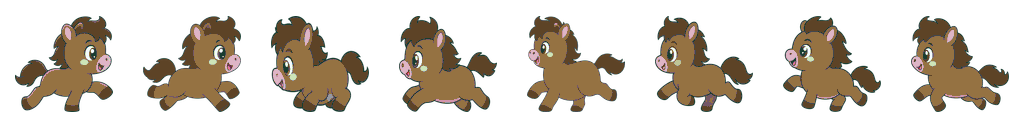
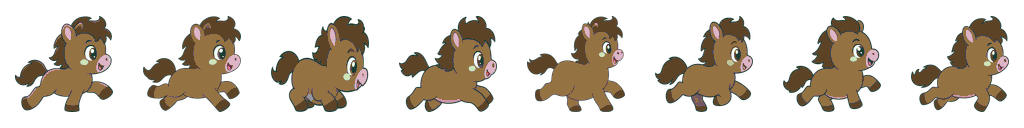
fix: correct potato roll animation direction
구운감자 달리기 원본 프레임 02~07을 수평 반전해 모든 프레임이 이동 방향인 오른쪽을 바라보도록 교정했습니다.

수정된 원본을 기준으로 런타임 롤 애니메이션 시트와 캐릭터 비교용 콘택트 시트를 다시 생성했습니다.

에셋 검증 과정에 얼굴 색상 중심과 캐릭터 중심을 비교하는 방향 검사를 추가했습니다. 이후 왼쪽을 향하는 구운감자 롤 프레임이 섞이면 검증 단계에서 즉시 실패하도록 하여 같은 문제가 재발하지 않게 했습니다.

Changed region(s): [[0.25, 0.125, 1.0, 0.875]]

diff --git a/scripts/validate-assets.js b/scripts/validate-assets.js
@@ -105,6 +105,7 @@ const itemAssets = [
   ...itemAsset("rainbow_gate", 108, 112)
 ];
 const collectRgb = PALETTE.collect.map(hexToRgb);
+const potatoFaceRgb = PALETTE.base.slice(1, 3).map(hexToRgb);
 const assets = [...characterAssets, ...enemyAssets, ...itemAssets];
 const errors = [];
 const requiredTileFrames = [
@@ -199,6 +200,22 @@ for (const asset of assets) {
     const subjectWidth = maxX - minX + 1;
     const subjectHeight = maxY - minY + 1;
     const baseline = info.height - (maxY + 1);
+    if (name.startsWith("potato89_roll_")) {
+      let faceXTotal = 0;
+      let facePixels = 0;
+      for (let index = 0; index < data.length; index += 4) {
+        if (data[index + 3] < QUALITY_THRESHOLDS.alpha) continue;
+        const rgb = [data[index], data[index + 1], data[index + 2]];
+        if (Math.min(...potatoFaceRgb.map((color) => colorDistance(rgb, color))) > 0) continue;
+        faceXTotal += (index / 4) % info.width;
+        facePixels += 1;
+      }
+      const faceCenterX = facePixels ? faceXTotal / facePixels : 0;
+      const subjectCenterX = (minX + maxX) / 2;
+      if (facePixels < 80 || faceCenterX <= subjectCenterX + 8) {
+        errors.push(`${name}: 구운 감자 roll 프레임이 오른쪽을 보지 않음 (얼굴 x=${faceCenterX.toFixed(1)}, 몸 중심 x=${subjectCenterX.toFixed(1)})`);
+      }
+    }
     if (asset.kind === "character") qualityMeasurements.characterHeight.push({ name, value: subjectHeight });
     if (asset.kind === "character" && Math.abs(subjectHeight - QUALITY_THRESHOLDS.characterHeight) / QUALITY_THRESHOLDS.characterHeight > QUALITY_THRESHOLDS.characterHeightToleranceRatio) {
       errors.push(`${name}: 캐릭터 높이 ${subjectHeight}px (96px ±5% 아님)`);
@@ -501,6 +518,6 @@ const maximumOutsidePalette = qualityMeasurements.outsidePalette.reduce(
   (maximum, measurement) => measurement.value > maximum.value ? measurement : maximum,
   qualityMeasurements.outsidePalette[0]
 );
-console.log(`캐릭터 ${characterAssets.length}프레임·시트 ${validatedCharacterSheetCount}개·적 ${enemyAssets.length}프레임·시트 ${validatedEnemySheetCount}개·아이템/진행 오브젝트 ${itemAssets.length}개·타일셋 1개·배경 ${backgroundAssets.length}개·오디오 ${validatedAudioCount}개 검증 통과: 규격, 실루엣, duration 매핑, 투명 여백, 팔레트, 2px extrude, 명도, seam, 로컬 WAV 잠금`);
+console.log(`캐릭터 ${characterAssets.length}프레임·시트 ${validatedCharacterSheetCount}개·적 ${enemyAssets.length}프레임·시트 ${validatedEnemySheetCount}개·아이템/진행 오브젝트 ${itemAssets.length}개·타일셋 1개·배경 ${backgroundAssets.length}개·오디오 ${validatedAudioCount}개 검증 통과: 규격, 실루엣, 방향, duration 매핑, 투명 여백, 팔레트, 2px extrude, 명도, seam, 로컬 WAV 잠금`);
 console.log(`형태/팔레트 임계값 통과: 기준선 ${qualityMeasurements.baseline.length}개 ${baselineRange.minimum}~${baselineRange.maximum}px (16±2px) · 캐릭터 높이 ${qualityMeasurements.characterHeight.length}개 ${heightRange.minimum}~${heightRange.maximum}px (96px±5%) · 팔레트 ${qualityMeasurements.outsidePalette.length}개 최대 ${(maximumOutsidePalette.value * 100).toFixed(2)}% (${maximumOutsidePalette.name}, 허용 5% 이하)`);
 console.log(`HTML 에셋 보고서 생성: ${assetReport.outputPath} (시각 에셋 ${assetReport.assetCount}개·역할 실루엣 ${assetReport.roleCount}개)`);
